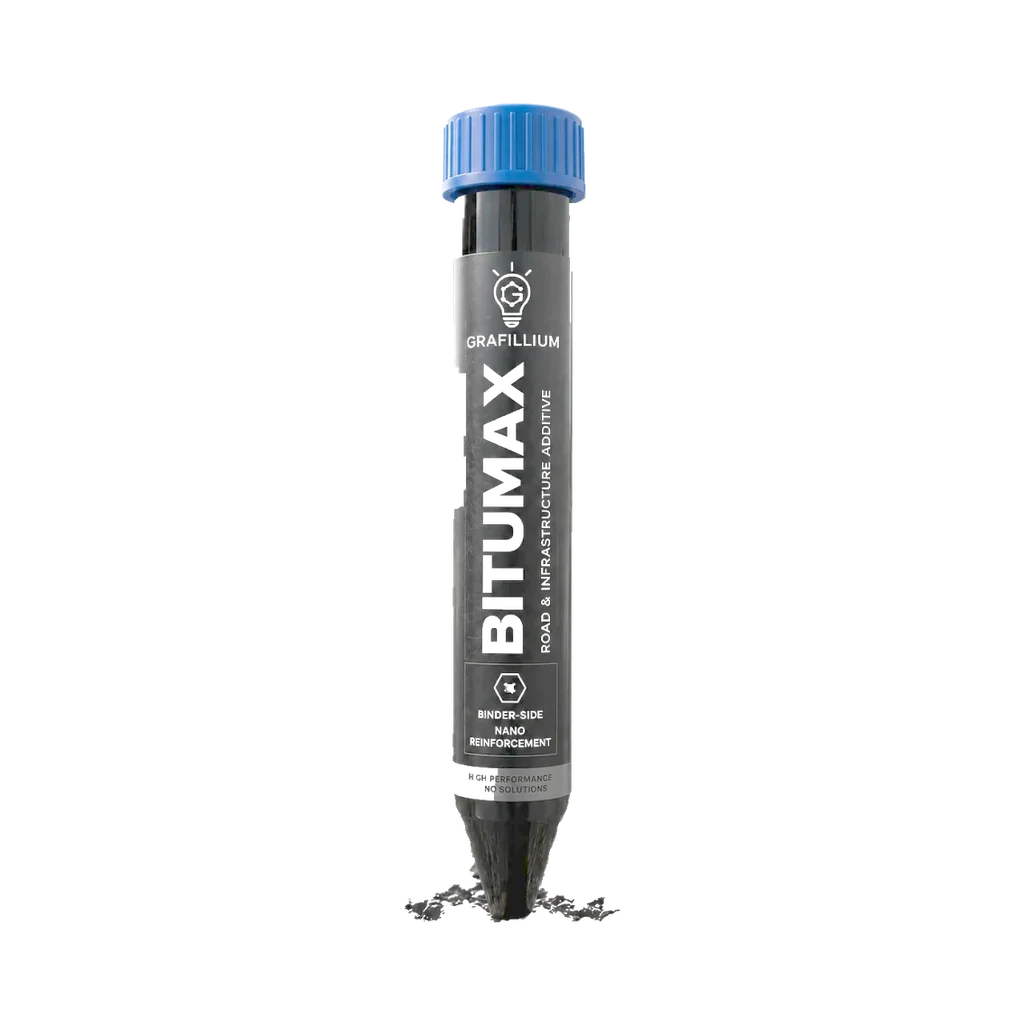
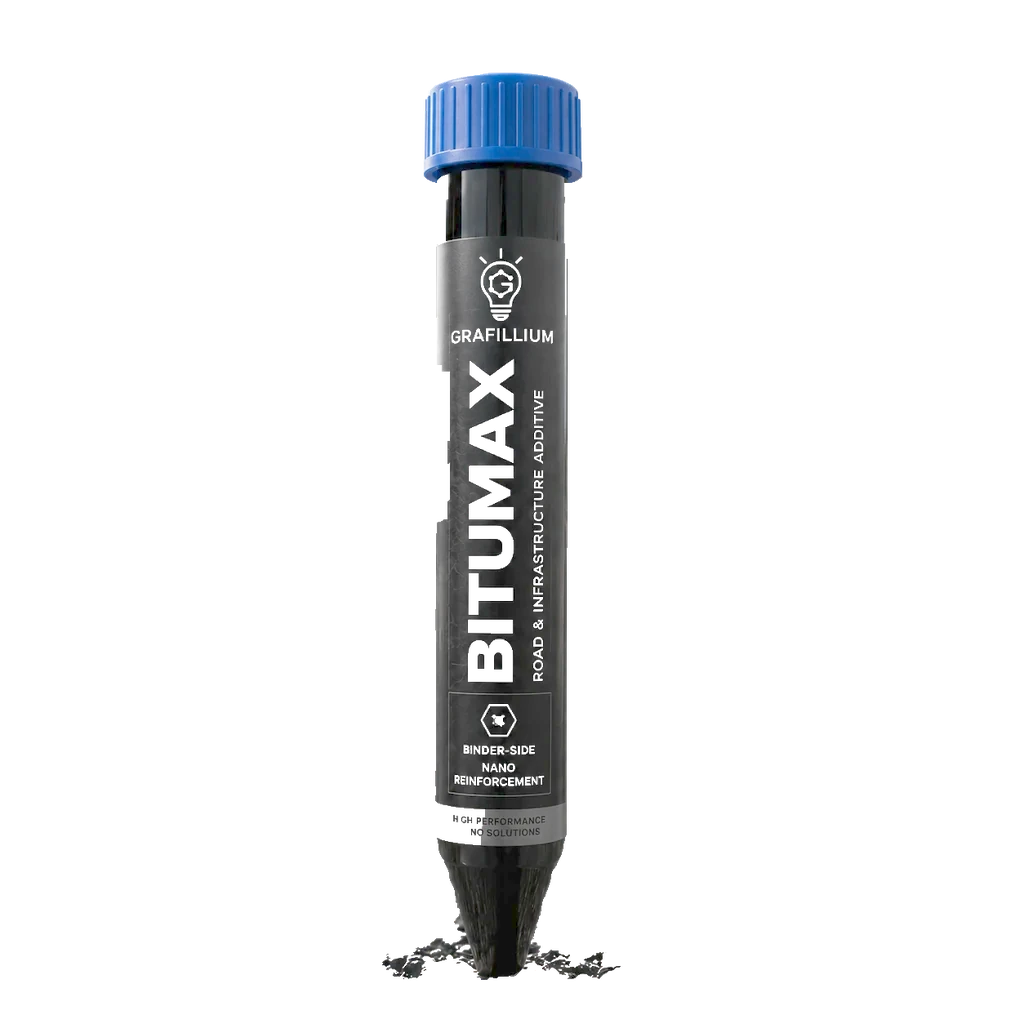
Sharpen the Bitumax artifact frame; put Hydrocell's stack in a facility
Reported: the Bitumax tube read badly in the panel's studio artifact frame.
Diagnosed at the zoom it was reported at rather than at card scale, where four
different exposures are indistinguishable. The defect was not brightness — it
was resolution. The tube is 239px wide in the best source that exists and the
panel paints it around 370 CSS px, so it upscales ~1.6x before device pixel
ratio, and the lift to 100 in 25714b1 made that worse by bleaching the label
and raising the pale rim shadows into a visible halo.

Two things recovered. The re-frame in 549bd67 scaled the subject to 80% of its
canvas to match Lubritron, which cost 11% of the available resolution — that
was done while the catalogue card still rendered this cut-out, and the card has
since moved to a scene photograph, so the panel is now its only consumer and
larger is strictly sharper there. Restored to the full 239x908 at 89% of
canvas. The lift comes back to 80, between the 69.4 that read murky and the 100
that read washed. Zero clipping.

"BITUMAX" is legible again and the halo is gone. The fine print on the label
is still soft and cannot be fixed from here: no source has this tube larger
than 239px across. A straight-on studio shot of it at 1000px or more is the
only thing that would.

Hydrocell's application frame was the one slot in twenty-five showing the same
object at the same angle as its own cut-out — a bench shot under a "Deployment
[…]

Changed region(s): [[0.375, 0.0625, 0.5938, 0.9688]]

diff --git a/src/routes/innovations.tsx b/src/routes/innovations.tsx
@@ -112,7 +112,6 @@ import appGraphosite from "@/assets/innovations/applications/graphosite.webp";
 import appThermaphene from "@/assets/innovations/applications/thermaphene.webp";
 import appArmophene from "@/assets/innovations/applications/armophene.webp";
 import appGryogen from "@/assets/innovations/applications/gryogen.webp";
-import appHydrocell from "@/assets/innovations/applications/hydrocell.webp";
 import appMariphene from "@/assets/innovations/applications/mariphene.webp";
 import appAerophenter from "@/assets/innovations/applications/aerophenter.webp";
 import appVitraphene from "@/assets/innovations/applications/vitraphene.webp";
@@ -248,7 +247,7 @@ const items: Item[] = [
   { title: "Vitraphene", stage: "Pilot", domain: "Composites · Fibres", status: "Composite pilot", metric: "Stronger glass fibres", body: "Reinforced graphene glass fibres for stronger composites and structures.", img: imgVitraphene, cutout: cutVitraphene, application: appVitraphene, scene: sceneVitraphene, sceneFit: "cover" },
   { title: "Voltaphene", stage: "Commercial", domain: "Grid Storage", status: "Commercial stage", metric: "Grid-scale storage", body: "Graphene-enabled energy storage systems for grid and mobility applications.", img: imgVoltaphene, cutout: cutVoltaphene, application: appVoltaphene, scene: sceneVoltaphene, sceneFit: "cover" },
   { title: "Armophene", stage: "R&D", domain: "Defence · Ballistics", status: "R&D · Bench", metric: "Lighter than steel armour", body: "Next-generation graphene ballistics — lighter, stronger personal and vehicle armour.", img: imgArmophene, cutout: cutArmophene, application: appArmophene, scene: sceneArmophene, sceneFit: "cover", featured: true },
-  { title: "Hydrocell", stage: "R&D", domain: "Hydrogen · Fuel Cell", status: "R&D · Bench", metric: "Zero-emission · high power density", body: "Graphene-enhanced hydrogen fuel cell stack for clean mobility and stationary power.", img: imgHydrocell, cutout: cutHydrocell, application: appHydrocell, scene: sceneHydrocell, sceneFit: "cover", featured: true },
+  { title: "Hydrocell", stage: "R&D", domain: "Hydrogen · Fuel Cell", status: "R&D · Bench", metric: "Zero-emission · high power density", body: "Graphene-enhanced hydrogen fuel cell stack for clean mobility and stationary power.", img: imgHydrocell, cutout: cutHydrocell, application: sceneHydrocell, scene: sceneHydrocell, sceneFit: "cover", featured: true },
   { title: "Bitumax", stage: "Pilot", domain: "Infrastructure · Bitumen", status: "Pilot stage", metric: "1.5–2× pavement life", body: "Bitumen additive extending pavement life with major fatigue reduction.", img: imgBitumax, cutout: cutBitumax, application: appBitumax, scene: sceneBitumax, sceneFit: "cover" },
   { title: "Pyronex", stage: "Pilot", domain: "Coatings · Multifunctional", status: "Pilot stage", metric: "Fire · Heat · UV · Microbe shield", body: "Multi-functional paint additive — fire retardant, thermal barrier, UV insulation, anti-algae and anti-microbial in one coat.", img: imgPyronex, cutout: cutPyronex, application: appPyronex, scene: scenePyronex, sceneFit: "cover" },
   { title: "Graphyre", stage: "R&D", domain: "Mobility · Tyres", status: "R&D · Compound", metric: "Longer life · better grip", body: "Reinforced performance tyres with graphene for grip, mileage and rolling efficiency.", img: imgGraphyre, cutout: cutGraphyre, application: appGraphyre, scene: sceneGraphyre, sceneFit: "cover" },
